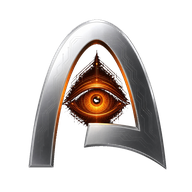
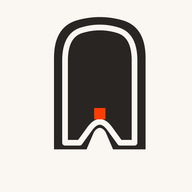
feat: brand polish

diff --git a/apps/web/app/page.tsx b/apps/web/app/page.tsx
@@ -2,6 +2,7 @@
 
 import { useEffect, useRef, useState } from "react";
 
+import { EmberMark } from "@/components/warm/EmberMark";
 import { ThemeToggle } from "@/components/warm/ThemeToggle";
 import { ConnectModal } from "@/components/warm/landing/ConnectModal";
 import {
@@ -83,11 +84,8 @@ export default function LandingPage() {
   return (
     <main className="min-h-[100dvh] overflow-hidden bg-[var(--wl-bg)] text-[var(--wl-ink)]">
       <aside className="fixed bottom-0 left-0 top-0 z-20 hidden w-[86px] flex-col items-center justify-between border-r border-[var(--wl-line)] bg-[var(--wl-bg)] py-7 lg:flex">
-        <MagneticAnchor
-          href="#"
-          className="font-display whitespace-nowrap text-[14px] font-bold tracking-[-.015em]"
-        >
-          ARCANUM<span className="text-[var(--wl-signal)]">.</span>
+        <MagneticAnchor href="#" className="flex items-center" aria-label="ARCANUM">
+          <EmberMark size={30} />
         </MagneticAnchor>
         <div
           className="font-mono text-[9px] tracking-[.18em] text-[var(--wl-mute)]"
@@ -119,8 +117,9 @@ export default function LandingPage() {
         <nav className="flex items-center justify-between border-b border-[var(--wl-line)] px-6 py-5 lg:hidden">
           <MagneticAnchor
             href="#"
-            className="font-display text-[18px] font-bold tracking-[-.015em]"
+            className="font-display flex items-center gap-2 text-[18px] font-bold tracking-[-.015em]"
           >
+            <EmberMark size={24} />
             ARCANUM<span className="text-[var(--wl-signal)]">.</span>
           </MagneticAnchor>
           <button
@@ -428,7 +427,8 @@ export default function LandingPage() {
         </section>
 
         <footer className="flex flex-col justify-between gap-6 px-6 pb-10 text-[11px] text-[var(--wl-secondary)] lg:flex-row lg:px-10">
-          <span className="font-display font-semibold tracking-[-.015em] text-[var(--wl-ink)]">
+          <span className="font-display flex items-center gap-2 font-semibold tracking-[-.015em] text-[var(--wl-ink)]">
+            <EmberMark size={18} />
             ARCANUM<span className="warm-period text-[var(--wl-signal)]">.</span>
           </span>
           <div className="flex gap-7">

diff --git a/apps/web/app/layout.tsx b/apps/web/app/layout.tsx
@@ -36,13 +36,16 @@ const publicDescription =
 
 export const metadata: Metadata = {
   metadataBase: new URL("https://thearcanum.in"),
-  title: "ARCANUM",
+  title: {
+    default: "ARCANUM | Money with a policy layer",
+    template: "%s | ARCANUM",
+  },
   description: "Money with a policy layer.",
   alternates: {
     canonical: "https://thearcanum.in",
   },
   openGraph: {
-    title: "ARCANUM",
+    title: "ARCANUM | Money with a policy layer",
     description: "Money with a policy layer.",
     url: "https://thearcanum.in",
     siteName: "ARCANUM",
@@ -58,19 +61,20 @@ export const metadata: Metadata = {
   },
   twitter: {
     card: "summary_large_image",
-    title: "ARCANUM",
+    title: "ARCANUM | Money with a policy layer",
     description: "Money with a policy layer.",
     images: ["/og.png"],
   },
   icons: {
     icon: [
-      { url: "/favicon.ico?v=2" },
-      { url: "/favicon-16x16.png?v=2", sizes: "16x16", type: "image/png" },
-      { url: "/favicon-32x32.png?v=2", sizes: "32x32", type: "image/png" },
-      { url: "/android-chrome-192x192.png?v=2", sizes: "192x192", type: "image/png" },
-      { url: "/android-chrome-512x512.png?v=2", sizes: "512x512", type: "image/png" },
+      { url: "/favicon.ico?v=3" },
+      { url: "/icon.svg?v=3", type: "image/svg+xml" },
+      { url: "/favicon-16x16.png?v=3", sizes: "16x16", type: "image/png" },
+      { url: "/favicon-32x32.png?v=3", sizes: "32x32", type: "image/png" },
+      { url: "/android-chrome-192x192.png?v=3", sizes: "192x192", type: "image/png" },
+      { url: "/android-chrome-512x512.png?v=3", sizes: "512x512", type: "image/png" },
     ],
-    apple: [{ url: "/apple-icon.png?v=2" }],
+    apple: [{ url: "/apple-icon.png?v=3" }],
   },
 };
 

diff --git a/apps/web/app/(public)/approve/[txHash]/ApprovePublicPage.tsx b/apps/web/app/(public)/approve/[txHash]/ApprovePublicPage.tsx
@@ -1,5 +1,6 @@
 "use client";
 
+import { EmberMark } from "@/components/warm/EmberMark";
 import { ARC_TESTNET_EXPLORER_URL, arcTestnet } from "@arcanum/shared";
 import { useConnectModal } from "@rainbow-me/rainbowkit";
 import Link from "next/link";
@@ -258,7 +259,11 @@ export function ApprovePublicPage({ txHash }: Readonly<{ txHash: string }>) {
         }
       </style>
       <nav className="flex items-center justify-between border-b border-[var(--wl-line)] px-5 py-5 md:px-9">
-        <Link href="/" className="font-display text-[18px] font-bold tracking-[-.015em]">
+        <Link
+          href="/"
+          className="font-display flex items-center gap-2 text-[18px] font-bold tracking-[-.015em]"
+        >
+          <EmberMark size={24} />
           ARCANUM<span className="text-[var(--wl-signal)]">.</span>
         </Link>
         <div className="flex items-center gap-5">

diff --git a/apps/web/app/(public)/explorer/[wallet]/ExplorerPublicPage.tsx b/apps/web/app/(public)/explorer/[wallet]/ExplorerPublicPage.tsx
@@ -1,5 +1,6 @@
 "use client";
 
+import { EmberMark } from "@/components/warm/EmberMark";
 import Link from "next/link";
 
 import { ThemeToggle } from "@/components/warm/ThemeToggle";
@@ -70,7 +71,11 @@ export function ExplorerPublicPage({ wallet }: Readonly<{ wallet: string }>) {
         }
       </style>
       <nav className="flex items-center justify-between border-b border-[var(--wl-line)] px-5 py-5 md:px-9">
-        <Link href="/" className="font-display text-[18px] font-bold tracking-[-.015em]">
+        <Link
+          href="/"
+          className="font-display flex items-center gap-2 text-[18px] font-bold tracking-[-.015em]"
+        >
+          <EmberMark size={24} />
           ARCANUM<span className="text-[var(--wl-signal)]">.</span>
         </Link>
         <div className="flex items-center gap-4">

diff --git a/apps/web/app/(public)/badge/[wallet]/BadgePublicPage.tsx b/apps/web/app/(public)/badge/[wallet]/BadgePublicPage.tsx
@@ -1,5 +1,6 @@
 "use client";
 
+import { EmberMark } from "@/components/warm/EmberMark";
 import Link from "next/link";
 
 import { ThemeToggle } from "@/components/warm/ThemeToggle";
@@ -59,7 +60,11 @@ export function BadgePublicPage({ wallet }: Readonly<{ wallet: string }>) {
         }
       </style>
       <nav className="flex items-center justify-between border-b border-[var(--wl-line)] px-5 py-5 md:px-9">
-        <Link href="/" className="font-display text-[18px] font-bold tracking-[-.015em]">
+        <Link
+          href="/"
+          className="font-display flex items-center gap-2 text-[18px] font-bold tracking-[-.015em]"
+        >
+          <EmberMark size={24} />
           ARCANUM<span className="text-[var(--wl-signal)]">.</span>
         </Link>
         <div className="flex items-center gap-4">
